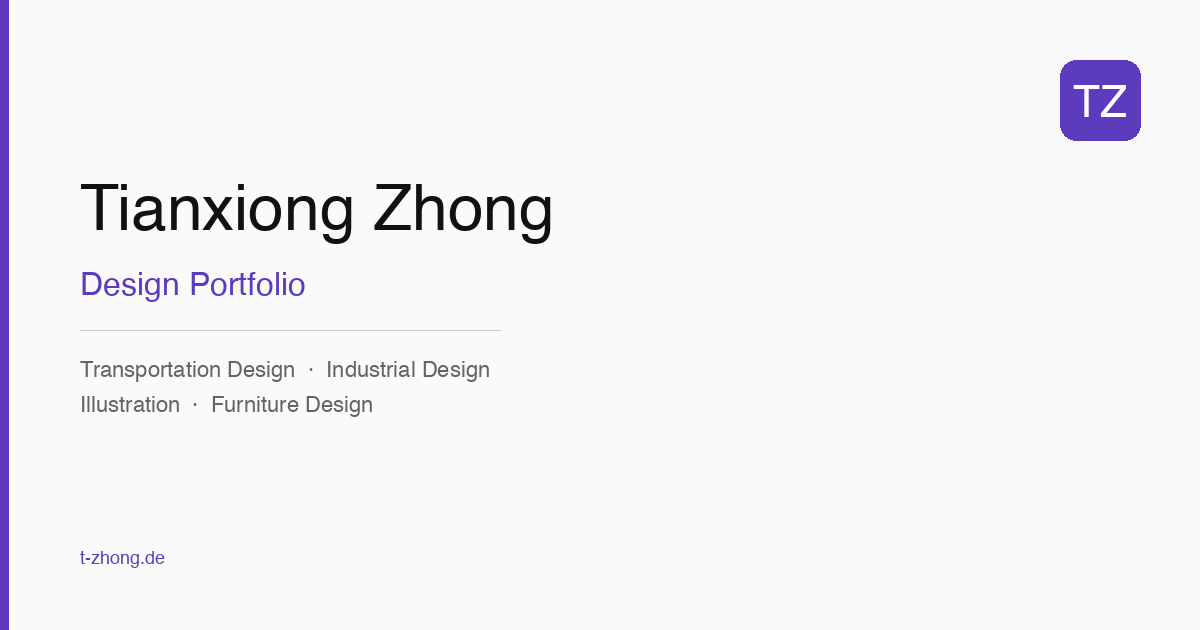
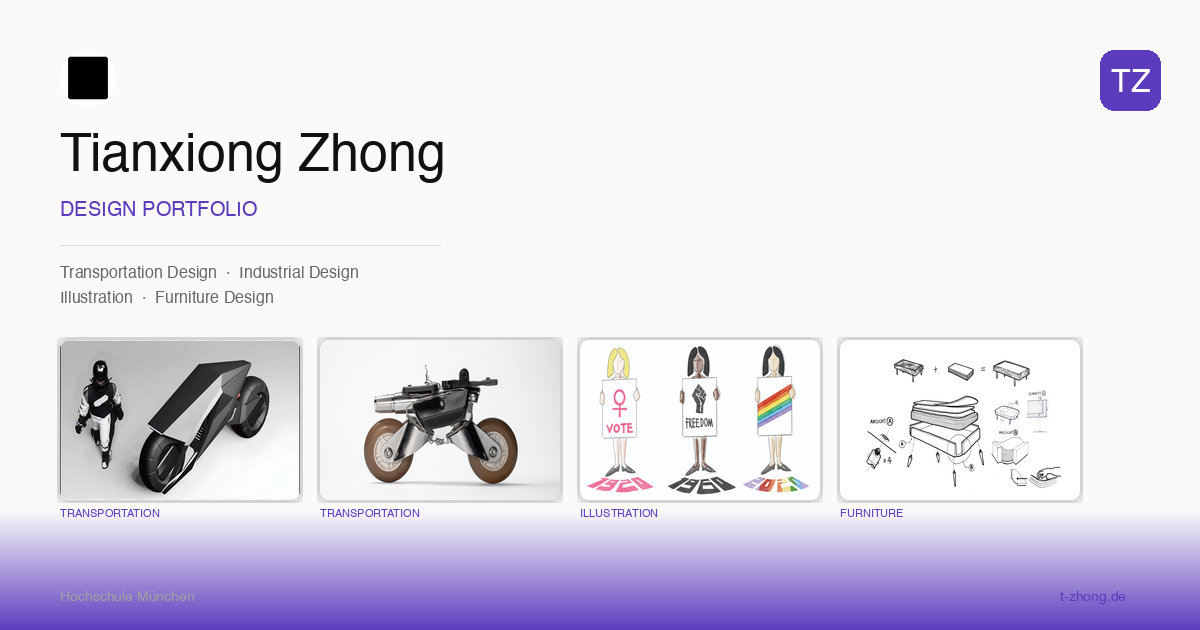
feat: generate OG image with real portfolio thumbnails
Composited 4 project images, logo, categories, and branding into
a proper 1200x630 Open Graph card. Added preview to README.
 Claude Opus 4.6 (1M context) <noreply@anthropic.com>

diff --git a/README.md b/README.md
@@ -1,6 +1,10 @@
 <div align="center">
 
-<img src="public/favicon.svg" alt="TZ Logo" width="80" height="80" />
+<img src="public/og-image.png" alt="Tianxiong Zhong — Design Portfolio" width="720" />
+
+<br />
+
+<img src="public/favicon.svg" alt="TZ Logo" width="56" height="56" />
 
 # Tianxiong Zhong — Design Portfolio
 
